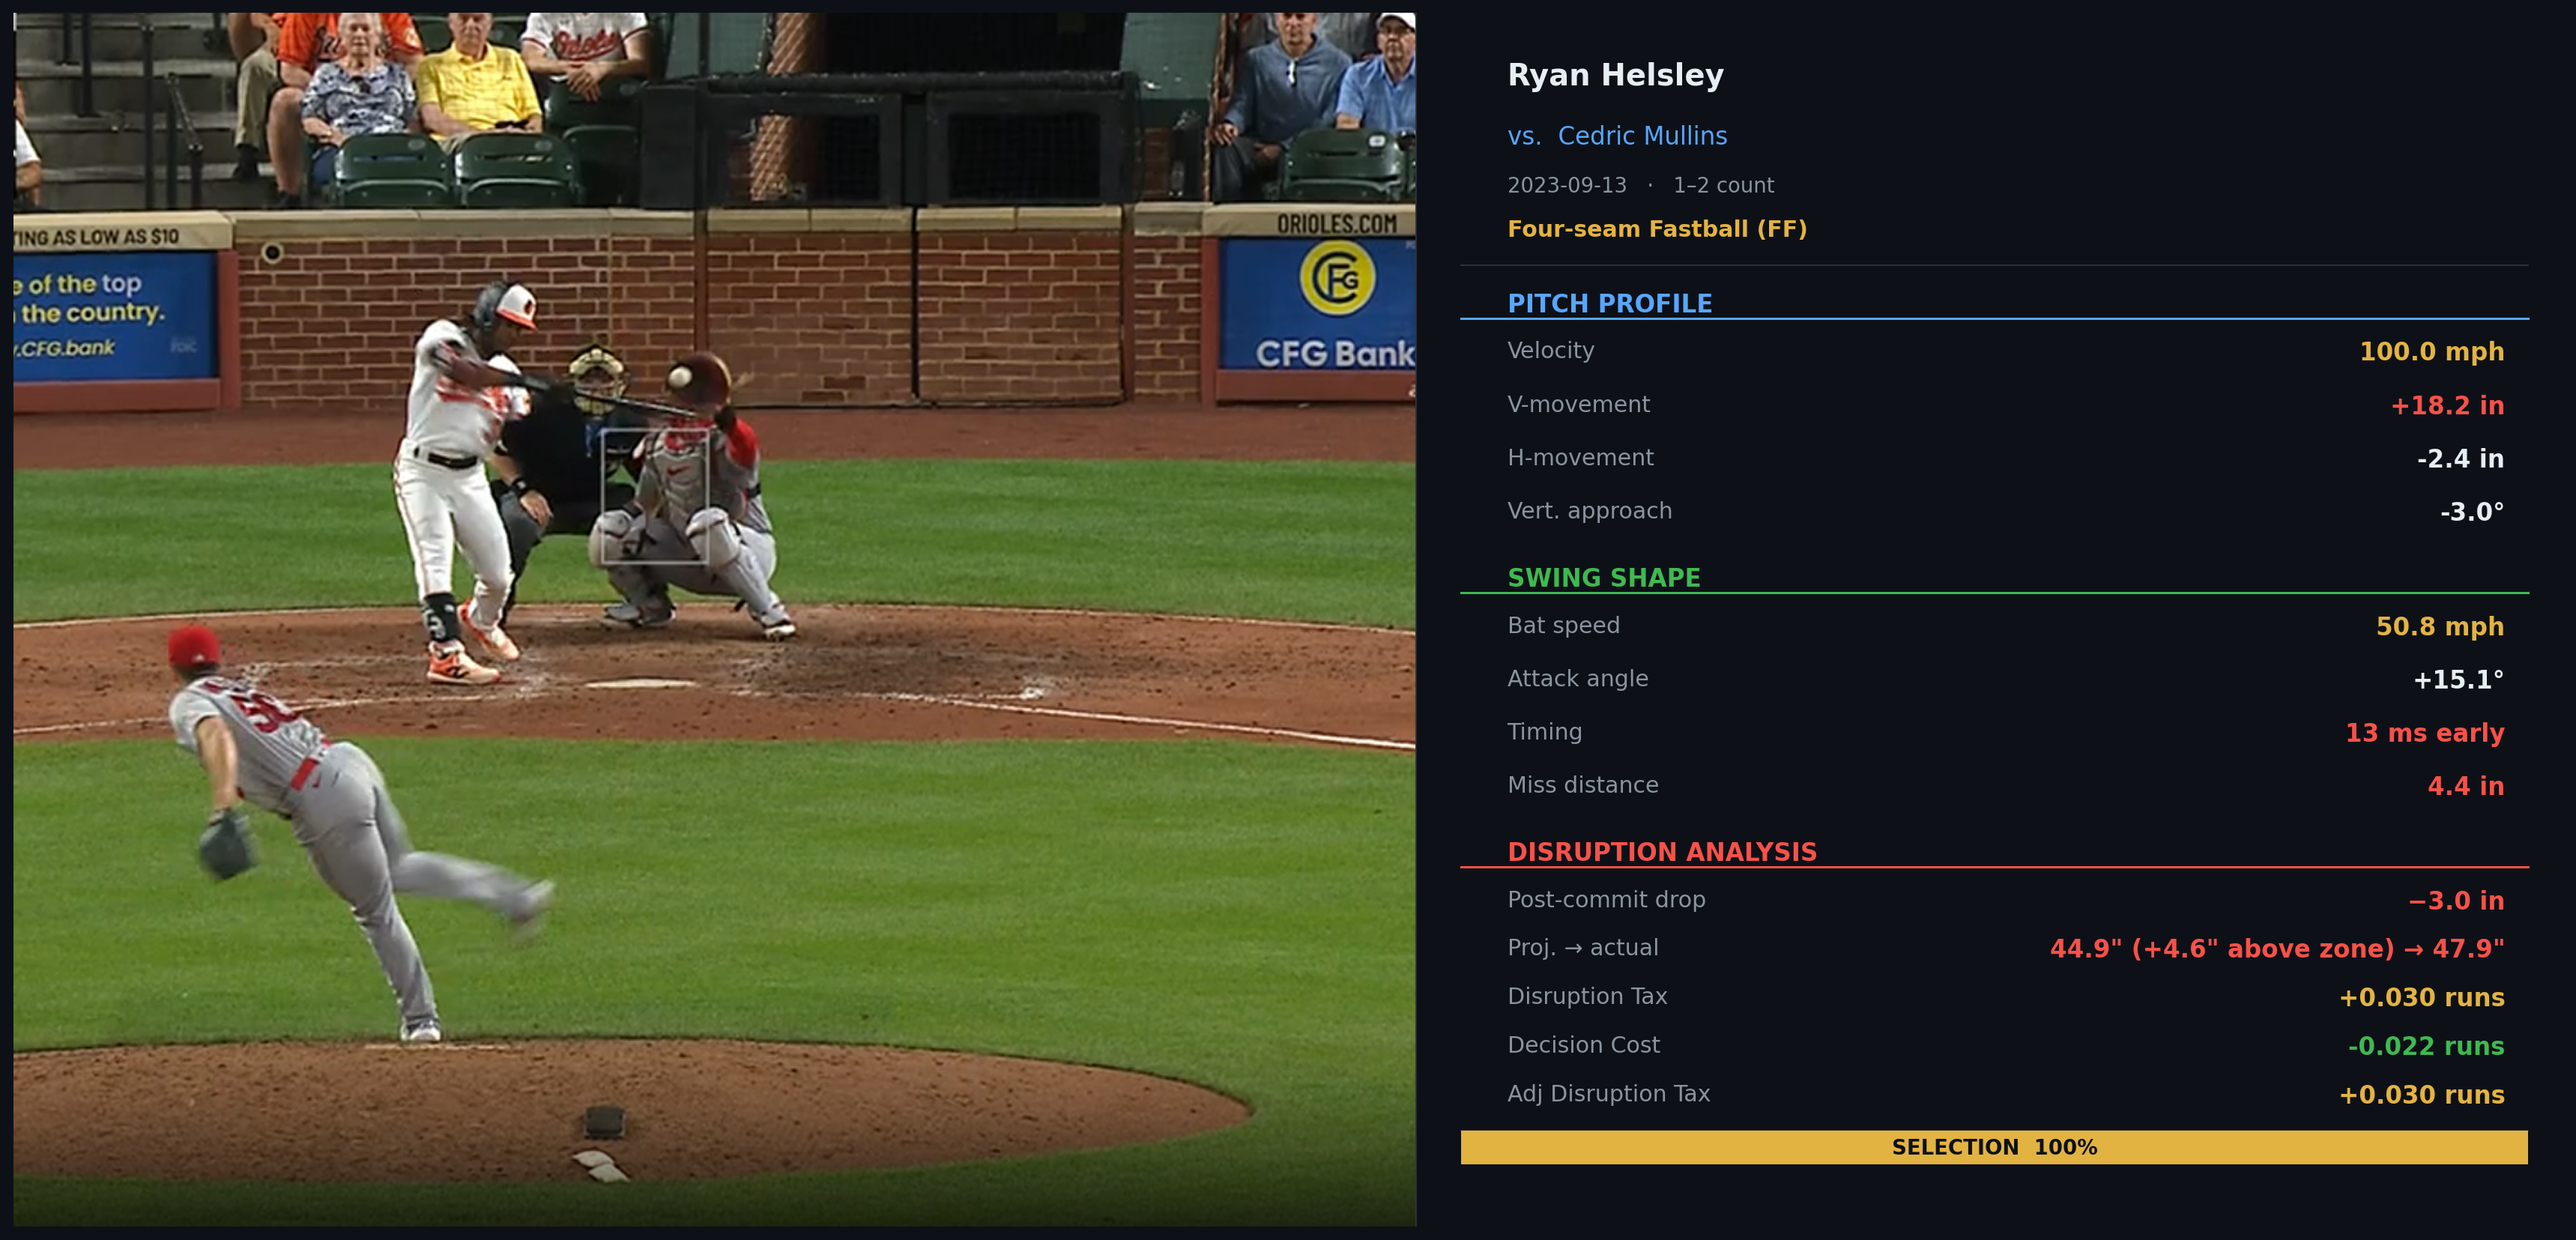
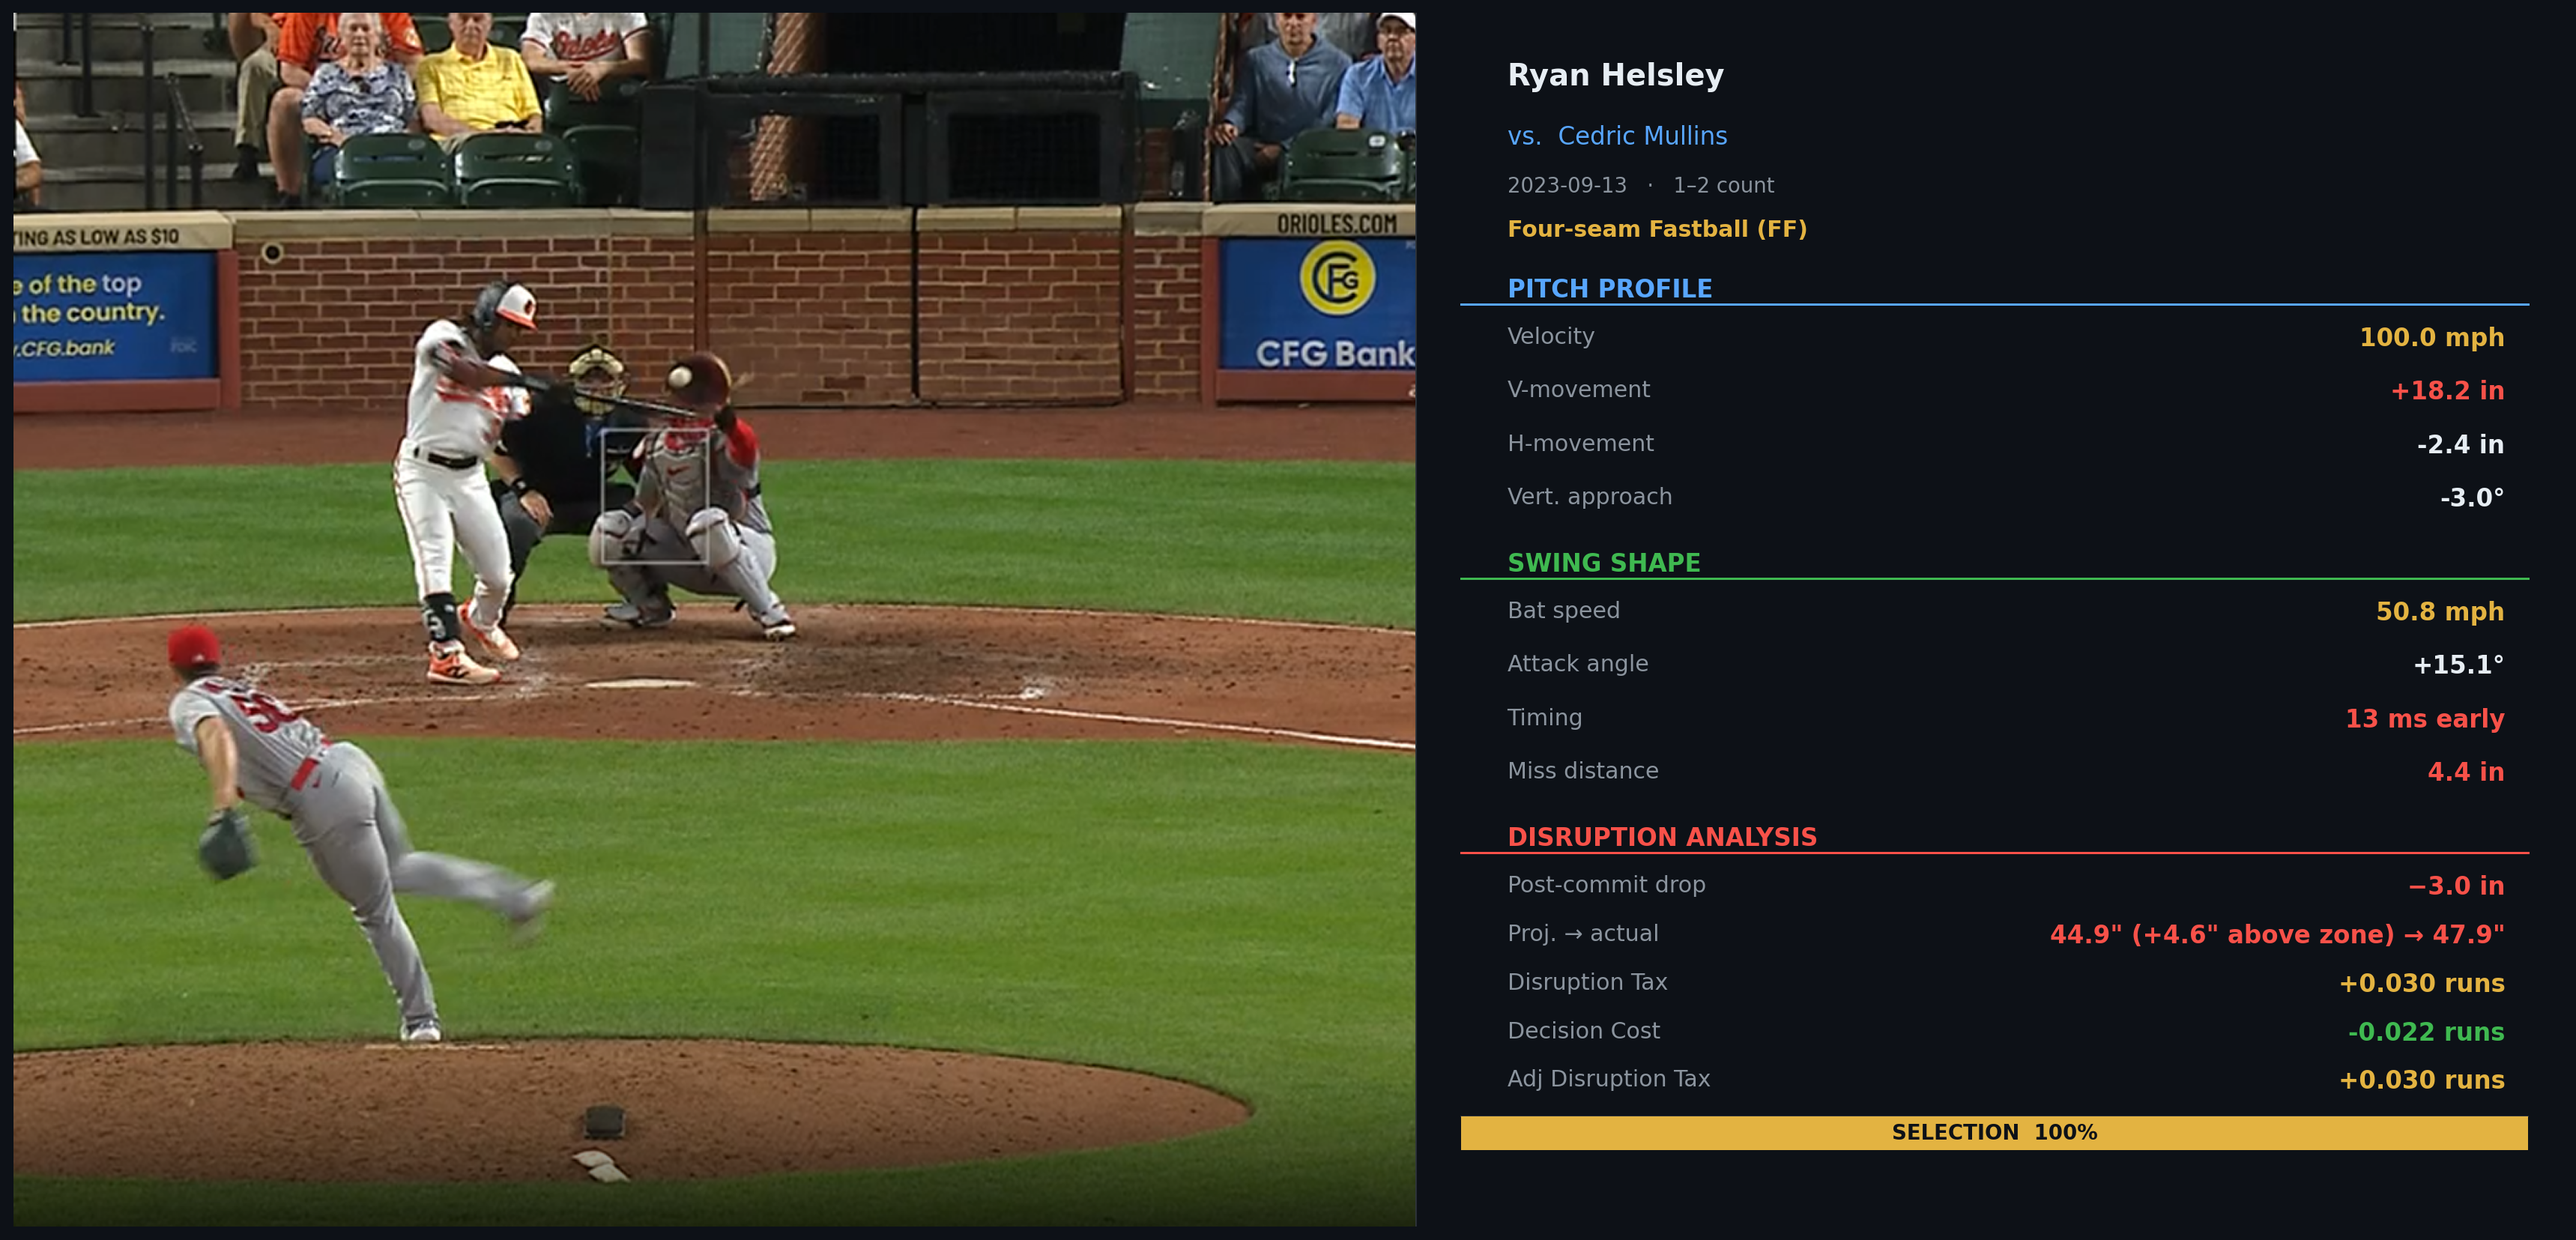
remove separator line below pitch type label in kinematic diagrams

Changed region(s): [[0.5602, 0.2157, 0.9959, 0.9553], [0.9026, 0.2465, 0.9648, 0.4314]]

diff --git a/src/viz/kinematic_diagram.py b/src/viz/kinematic_diagram.py
@@ -170,7 +170,7 @@ def make_broadcast_annotation(
               color=GRAY, fontsize=11, va="top", transform=ax_p.transAxes); y -= 0.036
     ax_p.text(xs, y, data["pitch_type"], color=AMBER, fontsize=12, fontweight="bold",
               va="top", transform=ax_p.transAxes); y -= 0.038
-    hline(y, BORDER); y -= 0.022
+    y -= 0.010
 
     # pitch profile
     y = section_title(y, "PITCH PROFILE", BLUE)
